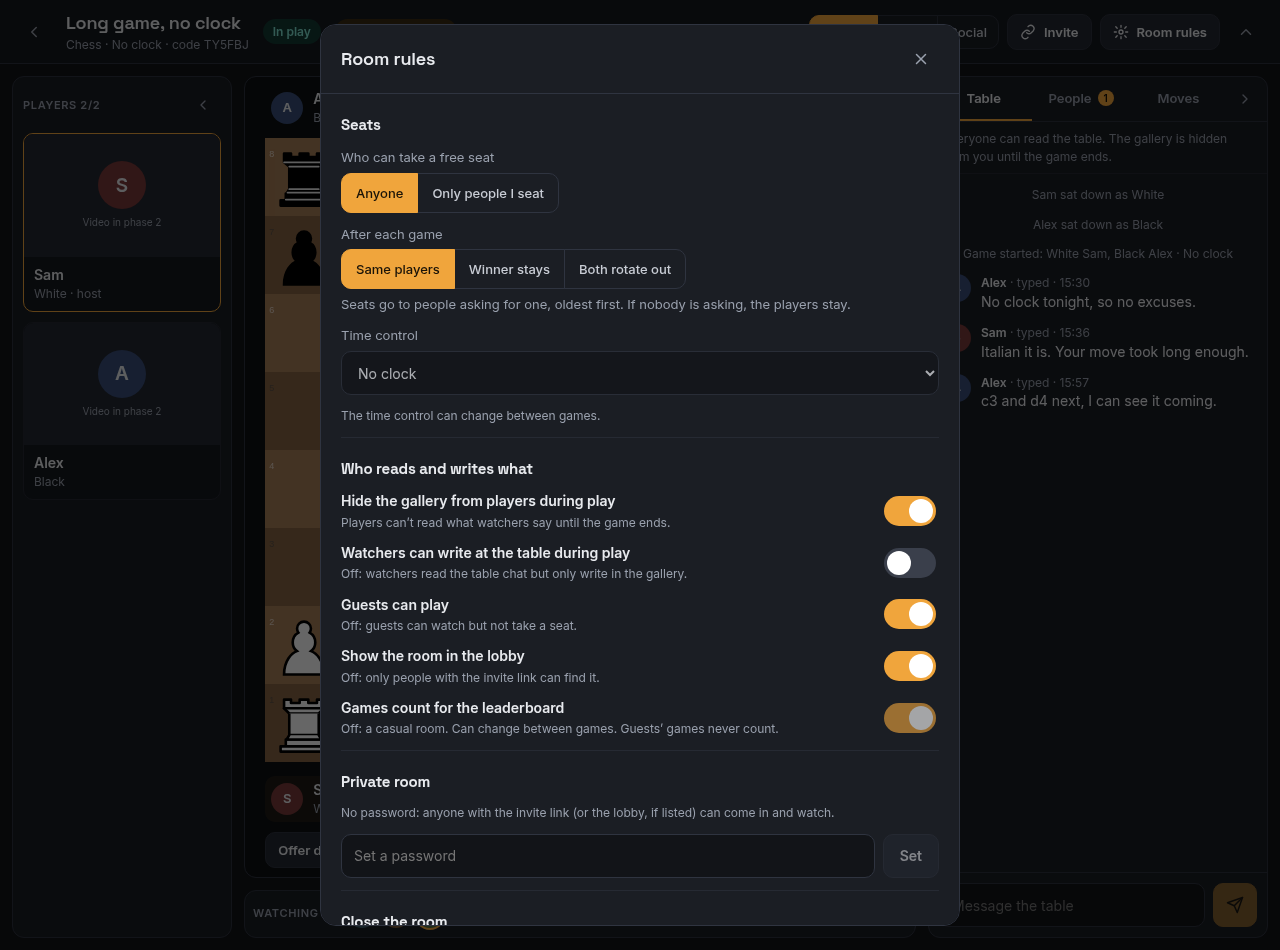
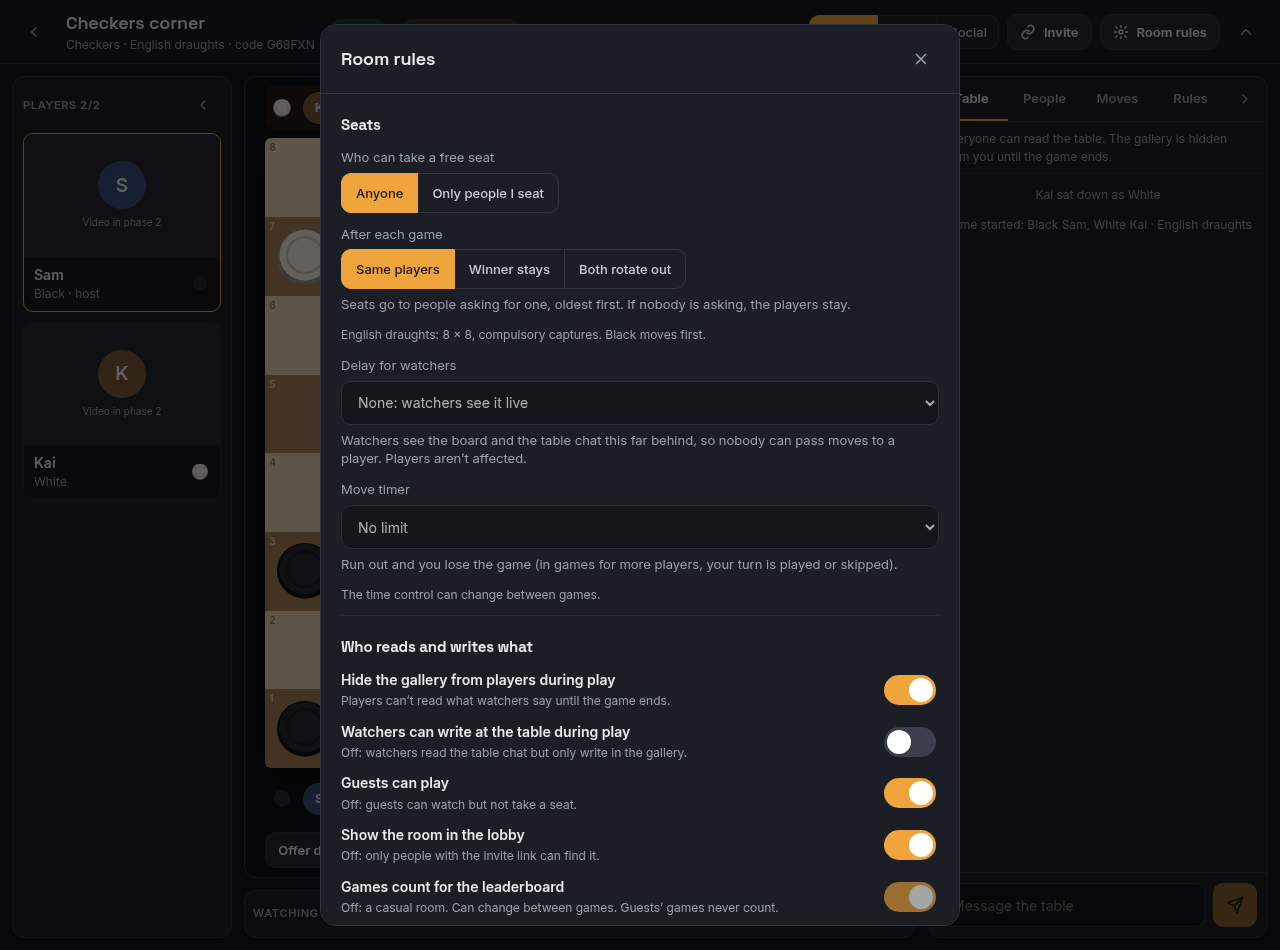
Playhall: six board games, the move timer and watcher delay, Ship2Shore in the backlog

diff --git a/playhall/README.md b/playhall/README.md
@@ -1,6 +1,6 @@
 # Playhall
 
-**Game rooms for friends: a host opens a room, some people play, and everyone else pulls up a chair and watches.** It runs in the browser, with chess and Four in a Row so far, a chat for the players and a separate one for the people watching, and leaderboards that keep score over weeks and months.
+**Game rooms for friends: a host opens a room, some people play, and everyone else pulls up a chair and watches.** It runs in the browser, with six board games so far (chess, checkers, Four in a Row, Snakes and Ladders, Ludo and Sea Battle), a chat for the players and a separate one for the people watching, and leaderboards that keep score over weeks and months.
 
 Most online games give you a match against a stranger. Playhall is closer to a games night: a room that stays open, people drifting in, a queue for the next game, and a running argument in the corner about who should have played d4. The host decides who plays, who waits and what the people watching may say, and the scores carry on from one evening to the next.
 
@@ -15,10 +15,10 @@ Most online games give you a match against a stranger. Playhall is closer to a g
 | | |
 |---|---|
 | **Rooms with roles** | A host, players in seats, and everyone else watching; a queue for seats; who plays the next game |
-| **Two games so far** | Chess with clocks, draw offers and promotion; Four in a Row. Seven more are planned on a shared set of boards, pieces, cards and dice |
+| **Six board games** | Chess, checkers, Four in a Row, Snakes and Ladders, Ludo and Sea Battle, for two to four players, all drawn from one set of boards, pieces and dice. Card games are next |
 | **Two conversations** | The table, which everyone reads, and the gallery, the watchers' own chat that players can't read during a game |
 | **A room that gets out of the way** | Every panel around the board expands, shrinks or hides; three layouts; works on a phone |
-| **The host's rules** | Who may sit down, what happens after each game, who may write where, private rooms with a password |
+| **The host's rules** | Who may sit down, what happens after each game, a move timer, an optional delay for watchers, who may write where, private rooms with a password |
 | **Points and leaderboards** | 3 for a win, 1 for a draw; weekly, monthly and all-time tables; every player's record and head-to-heads |
 
 ---
@@ -27,7 +27,7 @@ Most online games give you a match against a stranger. Playhall is closer to a g
 
 Anyone with an account can open a room, pick the game and a time control, and decide whether it shows in the lobby or only to people with the invite link. The lobby shows each room's game, who's playing, how many are watching, and whether there's a free seat.
 
-![The lobby: four rooms with their game, players and watchers, and the form for a new room](images/02-lobby.png)
+![The lobby: rooms playing chess, checkers, Snakes and Ladders, Ludo and Sea Battle, and the form for a new room listing every game](images/02-lobby.png)
 
 Inside a room there are three roles. The **host** runs it, and can play too. **Players** are whoever is sitting in the game's seats. Everyone else is **watching**. A watcher who wants to play asks for a seat and joins a queue; when a game ends, the host's rule decides who plays next: the same players, the winner stays and the next in the queue takes the other seat, or both rotate out.
 
@@ -59,6 +59,21 @@ When a game ends, the room shows what it meant: the points each player won, thei
 
 ![Four in a Row, Jordan to play: the frame with amber and teal discs, and a faint teal disc where Jordan's would land in the first column](images/05-four-in-a-row.png)
 
+**Checkers** is English draughts. Captures are compulsory, so the board only offers a capture when there is one, and a piece that can keep jumping must: you click each landing square in turn. A man that reaches the far row is crowned and then moves backwards too.
+
+![Checkers, Kai (White) to play: Kai has picked a piece that must capture, and the one square it can land on is marked](images/13-checkers.png)
+
+**Snakes and Ladders** and **Ludo** are for two to four players and bring in the dice: always rolled on the server, never in anyone's browser, so nobody can load them. Snakes and Ladders has its own drawn snakes and ladders and needs an exact roll to finish on 100. Ludo follows the usual rules: a 6 to bring a token out and another roll after a 6, rivals sent back to their yard (except on the starred squares), and an exact roll to get home. In both, everyone gets a finishing place, and second place earns a point.
+
+<p>
+<img src="images/14-snakes.png" width="49%" alt="Snakes and Ladders with three players: Jordan on 57 after rolling a 1, Lee on 19, Priya to roll">
+<img src="images/15-ludo.png" width="49%" alt="Ludo with four players, a few tokens out on the track and the rest still in their yards">
+</p>
+
+**Sea Battle** is the first game with hidden information. Each player's fleet is laid out at random (shuffle until you like it, then press Ready); you only ever see your own ships and the results of the shots, red for a hit and white for a miss, and people watching see the shots alone until the game ends and both fleets are shown.
+
+![Sea Battle from Jordan's side: Jordan's fleet with Lee's shots in it on the left, and the enemy waters with Jordan's shots on the right](images/16-sea-battle.png)
+
 Every game explains itself. The **Rules** tab in any room, and **How to play** when you pick a game in the lobby, give the goal in a sentence and then the essentials: taking turns, how the pieces move, how a game ends, and a few tips. Each new game has to come with its own.
 
 ![The Rules tab in a chess room: the goal, then taking turns, how the pieces move, special moves and how a game ends](images/12-rules.png)
@@ -79,9 +94,9 @@ On a phone the board takes the full width and everything else stacks beneath it.
 
 ## The host's rules
 
-The host sets how the room works and can change most of it at any time: whether anyone may take a free seat or only people the host seats, the after-game rule, the time control (between games), whether watchers may write at the table, whether guests may play, whether the room shows in the lobby, and whether its games count for the leaderboard. The host can also move a player to watching, hand the room to someone else, or close it.
+The host sets how the room works and can change most of it at any time: whether anyone may take a free seat or only people the host seats, the after-game rule, the time control (between games), a **move timer** for the games with turns (15 seconds to 5 minutes a move; run out and you lose, or in a game for more players your roll is made for you), a **delay for watchers** (off unless the host wants it: watchers then see the board and the players' chat up to two minutes late, so nobody can feed a player moves), whether watchers may write at the table, whether guests may play, whether the room shows in the lobby, and whether its games count for the leaderboard. The host can also move a player to watching, hand the room to someone else, or close it.
 
-![The Room rules dialog: seats, the after-game rule, the time control, and the switches for who reads and writes what](images/08-room-rules.png)
+![The Room rules dialog: seats, the after-game rule, the delay for watchers, the move timer, and the switches for who reads and writes what](images/08-room-rules.png)
 
 A room can also have a **password**. The host and anyone already playing go straight in; everyone else is asked for it, and changing it means everyone else needs the new one.
 
@@ -105,13 +120,13 @@ Each player has a page of their own: points, games played, points per game, win 
 
 Playhall is planned in five phases, with a backlog behind them.
 
-1. **Phase 1, now: more games.** Seven more on the shared kit, so they all look like one set: checkers, snakes and ladders, Ludo, a fleet-hunting game, blackjack and Texas Hold'em (with play chips only), and a colour-matching card game. Games for three or more players are scored by place: 3 for the winner, 1 for second.
+1. **Phase 1, now: the card games.** Blackjack and Texas Hold'em (with play chips only) and a colour-matching card game, on one shared deck design, to go with the six board games already in.
 2. **Phase 2: voice and video, and then any board game at all.** Voice and video in every room, split the same way as the chat, so watchers can talk among themselves without the players hearing. Video brings the **camera table**: the host points a camera (a phone on a stand will do) at a real board on their own table and moves the pieces for everyone, and Playhall keeps the rest: the seats and turns, a shared dice roller, a score pad, a move timer and the chat. That works for any board game, including all the ones nobody has written for Playhall, and the host enters the result at the end so it can still count.
 3. **Phase 3: OpenBOR rooms.** The server runs the open-source OpenBOR engine for beat-'em-ups and streams the game into the room, and up to four players control it from their browsers with a gamepad or keyboard. Playhall supplies neither the engine nor any games: an admin installs the engine from its official releases, and players import their own games.
 4. **Phase 4: share a game from your own PC.** A host runs any local-multiplayer game on their own computer; Playhall streams it to the room and friends play it remotely with their own controllers, which appear on the host's PC as ordinary game controllers.
 5. **Phase 5: games from anyone.** A plug-in kit so other people's web games can run in a room, plus a faster, smoother version of sharing a game from your PC.
 
-**In the backlog:** tournaments (knockout, round robin and Swiss, with Playhall pairing the players and opening the rooms each round); more games, among them a crossword tile game, a country-house murder mystery and a fantasy creature card duel, each under our own name and artwork; computer opponents; and replays of finished games.
+**In the backlog:** Ship2Shore, a hidden-role game set aboard a 1943 merchant ship where the Royal Navy, enemy spies and a black-market fixer each steer for a different port and the crew throw suspects to the sharks; tournaments (knockout, round robin and Swiss, with Playhall pairing the players and opening the rooms each round); more games, among them a crossword tile game, a country-house murder mystery and a fantasy creature card duel, each under our own name and artwork; computer opponents; and replays of finished games.
 
 ---
 
@@ -121,6 +136,6 @@ Playhall is a Node.js server with a Postgres database, packaged as two container
 
 ## Status
 
-Early: phase 1 of five is under way, and Playhall has been run on a home network, not yet in public. CI runs on every push: unit tests of the game rules, the room logic and the scoring; an end-to-end test that plays a game over the real WebSocket and checks the results, stats and private rooms; a browser test that plays on the real board on desktop and phone; loading and removing the demo data; and building and starting the container image.
+Early: phase 1 of five is under way, and Playhall has been run on a home network, not yet in public. CI runs on every push: 43 unit tests of the game rules, the room logic and the scoring; an end-to-end test that plays a game over the real WebSocket and checks the results, stats and private rooms; a browser test that plays on the real board on desktop and phone; loading and removing the demo data; and building and starting the container image.
 
 Source: [github.com/chrisnock-personal/playhall](https://github.com/chrisnock-personal/playhall)

diff --git a/README.md b/README.md
@@ -14,6 +14,6 @@ Overviews of my projects: what each one is for, what it does, and how it looks i
 | [Desktop Icon Manager](desktop-icon-manager/README.md) | A native Linux app for changing any application's icon in the menu and dock, Chrome web apps included | [Public](https://github.com/chrisnock-personal/desktop-icon-manager) |
 | [FleetWright](fleetwright/README.md) | Keeps Linux servers up to date, through an agent or over SSH: what's pending across the fleet, installs in batches with a canary, auto-install policies by kind of update, booked maintenance windows, and a record of every package changed | [Public](https://github.com/chrisnock-personal/fleetwright) |
 | [Parley](parley/README.md) | An IP intercom in the browser: talk groups and direct calls, with live transcripts, group chat and SIP-REC recording | [Public](https://github.com/chrisnock-personal/parley) |
-| [Playhall](playhall/README.md) | Game rooms for friends in the browser: a host, players and people watching, chess and Four in a Row so far, a chat for the players and one for the watchers, private rooms, and leaderboards that keep score over weeks and months | [Public](https://github.com/chrisnock-personal/playhall) |
+| [Playhall](playhall/README.md) | Game rooms for friends in the browser: a host, players and people watching, six board games so far, a chat for the players and one for the watchers, private rooms, and leaderboards that keep score over weeks and months | [Public](https://github.com/chrisnock-personal/playhall) |
 | [Skyfarer](skyfarer/README.md) | Watches the status pages of nine cloud providers, from AWS and Azure to DigitalOcean and Hetzner, and tells you about incidents and maintenance in the regions you run in, through Zendesk, ServiceNow, Jira Service Management, Freshdesk, PagerDuty, Pushover, Teams, SNMP traps or webhooks, all set up in the browser | [Public](https://github.com/chrisnock-personal/skyfarer) |
 | [The Open CDR Project](open-cdr/README.md) | An open, vendor-neutral standard for call detail records: one record shape for every call, whichever phone system made it, and one API to read them | [Public](https://github.com/chrisnock-personal/open-cdr-project) |
